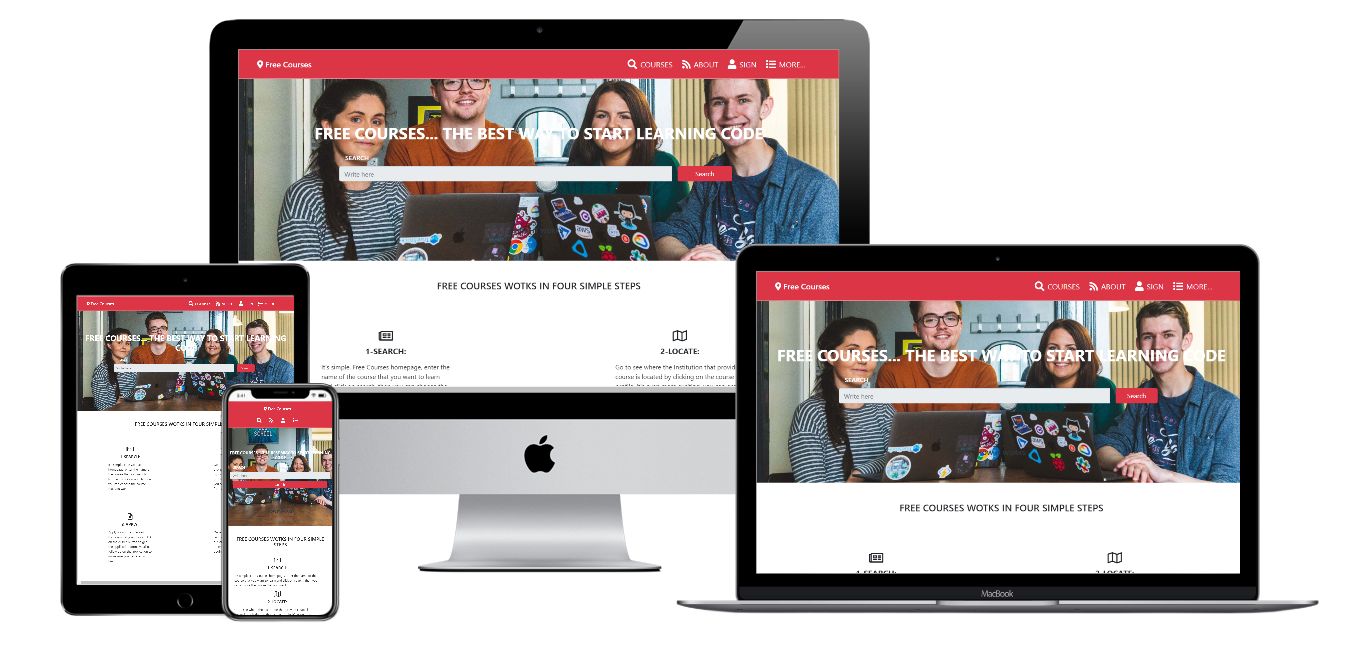
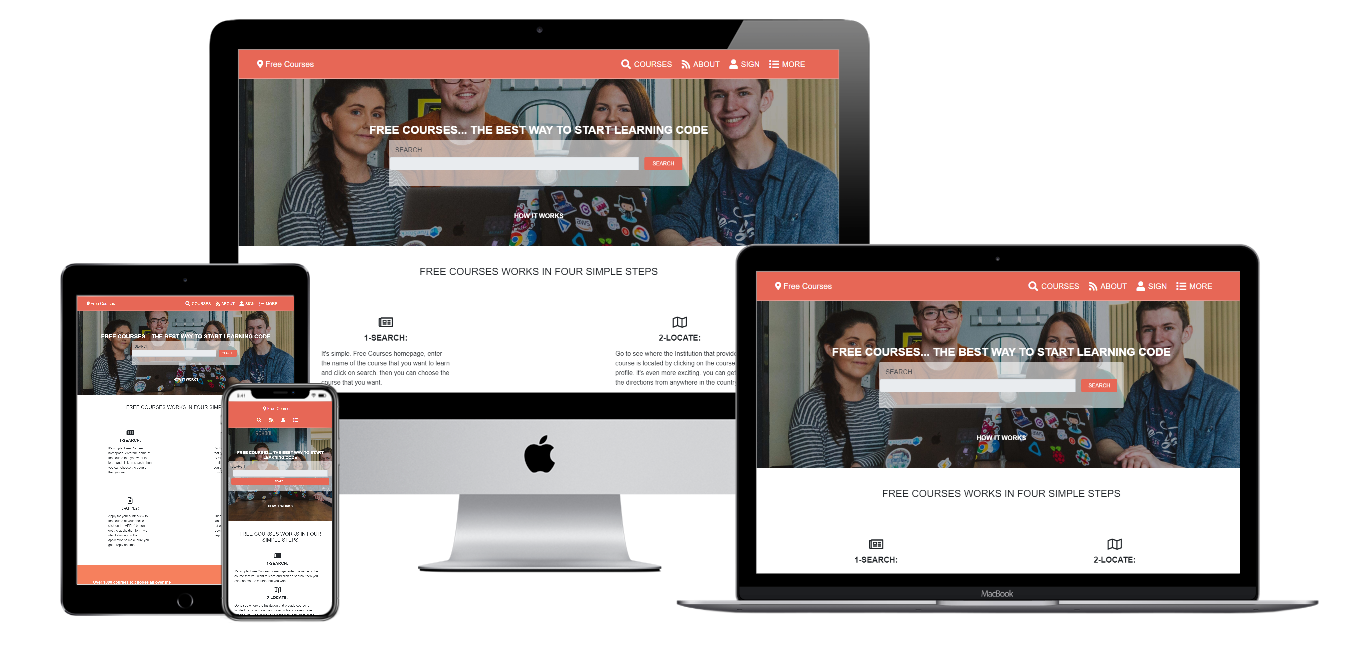
add new screen images

Changed region(s): [[0.0307, 0.0609, 0.9224, 0.9437], [0.7994, 0.8219, 0.8302, 0.8828], [0.6149, 0.8219, 0.6457, 0.8828]]

diff --git a/index.html b/index.html
@@ -51,7 +51,7 @@
         </nav>
         <main >
             <div class="formBackground">
-                <div class='backgroundImage   vh-70 pb-5 '>
+                <div class='backgroundImage   vh-85 pb-5 '>
                     <div class="col-12 mt-3 ">
                         <div class="row">
                             <div class="col-10 col-sm-12 text-center text-white text-uppercase  d-flex justify-content-center mx-auto px-0 mt-5  pt-5">
